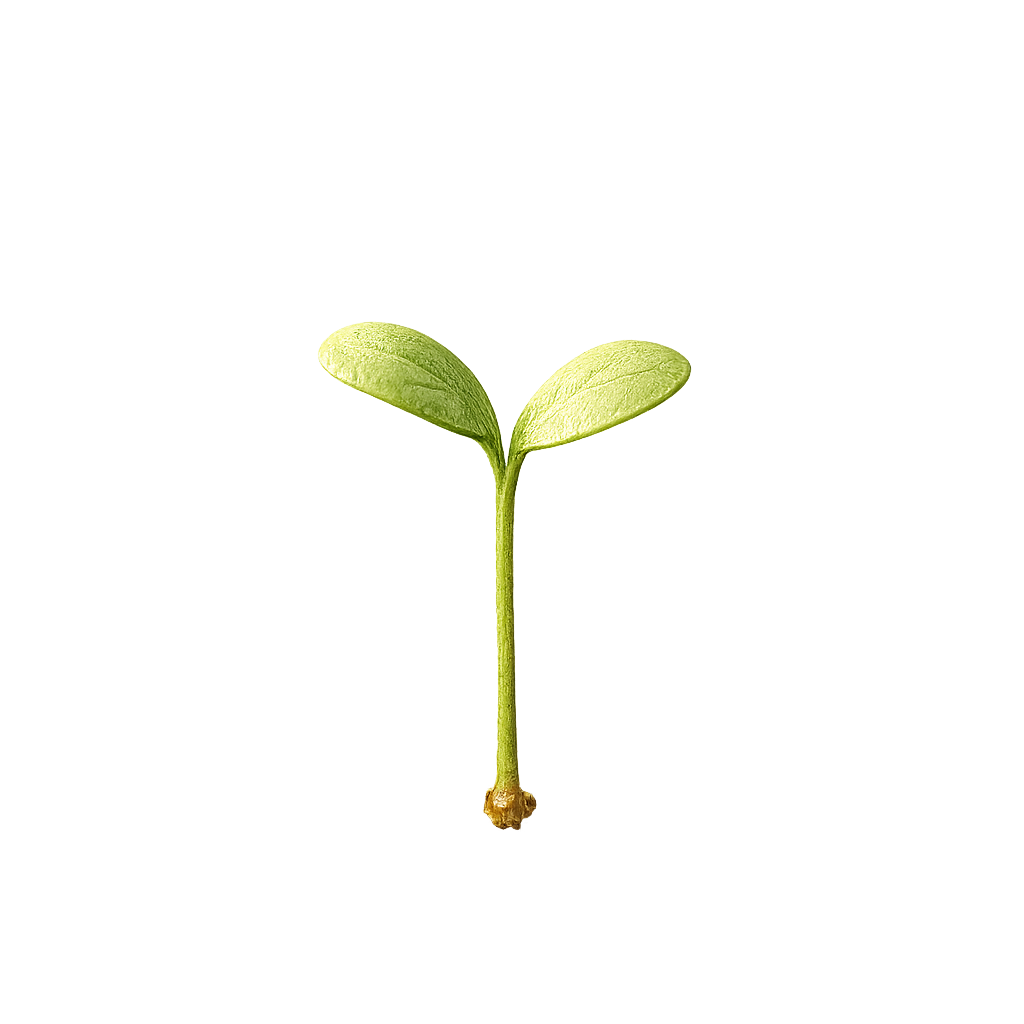
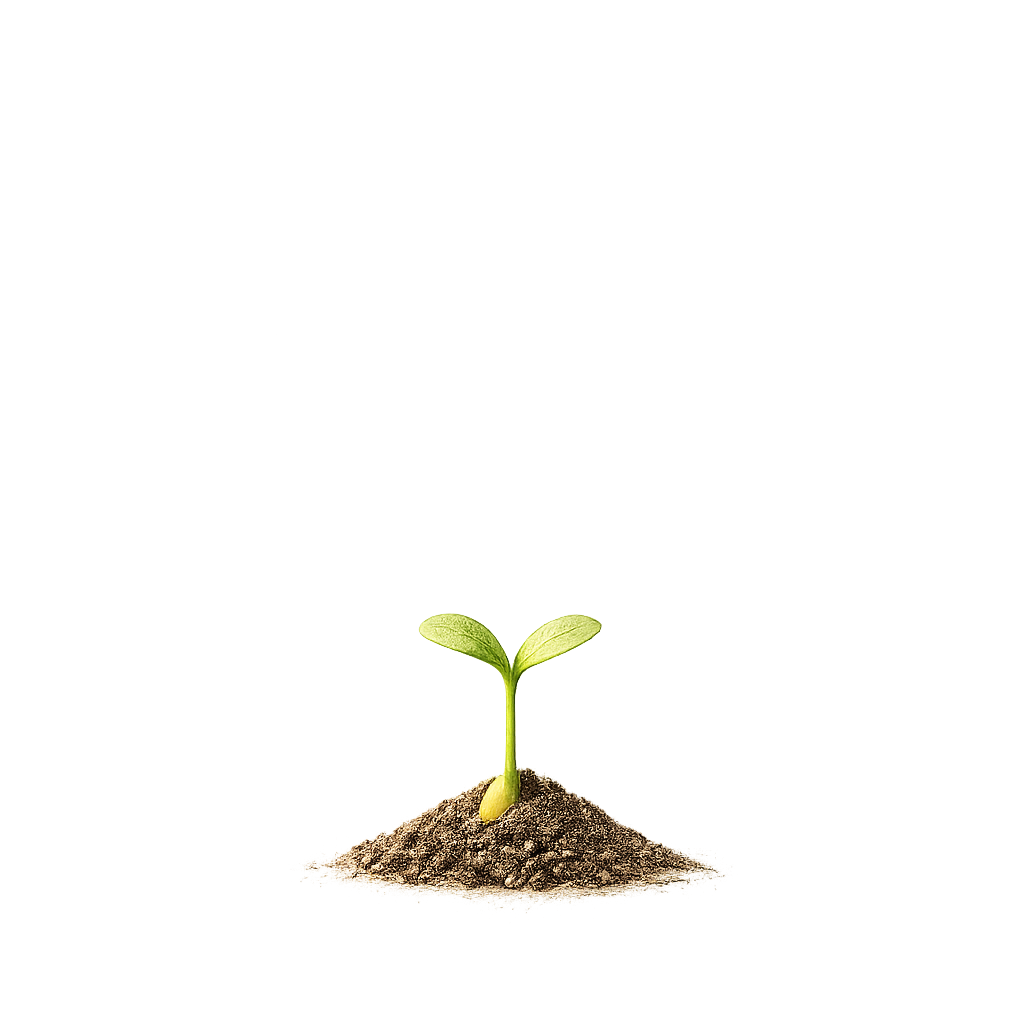
feat: implement dynamic TreeDisplayWidget with day-night cycles, celestial bodies, and tree stage asset support.

Changed region(s): [[0.3125, 0.3125, 0.6875, 0.875]]

diff --git a/app/lib/src/features/dashboard/widgets/tree_display_widget.dart b/app/lib/src/features/dashboard/widgets/tree_display_widget.dart
@@ -615,19 +615,59 @@ class _TreeVitalityCardState extends State<TreeVitalityCard> {
         child: Column(
           children: [
             // Full-width Panorama Tree Scene wrapped in RepaintBoundary for capture feature
-            RepaintBoundary(
-              key: _repaintBoundaryKey,
-              child: TreeDisplayWidget(
-                skinId: widget.skinId,
-                cumulativeDays: widget.cumulativeDays,
-                season: widget.season,
-                width: double.infinity,
-                height: 220,
-              ),
+            Stack(
+              children: [
+                RepaintBoundary(
+                  key: _repaintBoundaryKey,
+                  child: TreeDisplayWidget(
+                    skinId: widget.skinId,
+                    cumulativeDays: widget.cumulativeDays,
+                    season: widget.season,
+                    width: double.infinity,
+                    height: 220,
+                  ),
+                ),
+                // Floating minimal capture button at top-right (outside RepaintBoundary so it's not captured)
+                Positioned(
+                  top: 12,
+                  right: 12,
+                  child: Tooltip(
+                    message: 'Ambil Foto Pohon',
+                    child: ClipOval(
+                      child: Material(
+                        color: Colors.black.withValues(alpha: 0.12),
+                        child: InkWell(
+                          onTap: _isCapturing ? null : _captureAndShareTree,
+                          child: SizedBox(
+                            width: 32,
+                            height: 32,
+                            child: Center(
+                              child: _isCapturing
+                                  ? const SizedBox(
+                                      width: 14,
+                                      height: 14,
+                                      child: CircularProgressIndicator(
+                                        strokeWidth: 2,
+                                        valueColor: AlwaysStoppedAnimation<Color>(Colors.white),
+                                      ),
+                                    )
+                                  : Icon(
+                                      Icons.camera_alt_outlined,
+                                      size: 16,
+                                      color: Colors.white.withValues(alpha: 0.85),
+                                    ),
+                            ),
+                          ),
+                        ),
+                      ),
+                    ),
+                  ),
+                ),
+              ],
             ),
             const SizedBox(height: 20),
 
-            // Info Section (Title & Share/Skin buttons)
+            // Info Section (Title & Skin button)
             Row(
               mainAxisAlignment: MainAxisAlignment.spaceBetween,
               crossAxisAlignment: CrossAxisAlignment.start,
@@ -649,75 +689,32 @@ class _TreeVitalityCardState extends State<TreeVitalityCard> {
                     ],
                   ),
                 ),
-                // Action Buttons Row (Ambil Foto & Skin Shop)
-                Row(
-                  mainAxisSize: MainAxisSize.min,
-                  children: [
-                    // Capture/Share button
-                    InkWell(
-                      onTap: _isCapturing ? null : _captureAndShareTree,
+                // Skin Shop button
+                InkWell(
+                  onTap: widget.onSkinShopTap,
+                  borderRadius: BorderRadius.circular(12),
+                  child: Container(
+                    padding: const EdgeInsets.symmetric(horizontal: 10, vertical: 6),
+                    decoration: BoxDecoration(
+                      color: theme.colorScheme.primary.withOpacity(0.08),
                       borderRadius: BorderRadius.circular(12),
-                      child: Container(
-                        padding: const EdgeInsets.symmetric(horizontal: 10, vertical: 6),
-                        decoration: BoxDecoration(
-                          color: theme.colorScheme.secondary.withOpacity(0.08),
-                          borderRadius: BorderRadius.circular(12),
-                          border: Border.all(color: theme.colorScheme.secondary.withOpacity(0.15)),
-                        ),
-                        child: Row(
-                          children: [
-                            _isCapturing
-                                ? const SizedBox(
-                                    width: 14,
-                                    height: 14,
-                                    child: CircularProgressIndicator(
-                                      strokeWidth: 2,
-                                      valueColor: AlwaysStoppedAnimation<Color>(Colors.grey),
-                                    ),
-                                  )
-                                : Icon(Icons.camera_alt_outlined, size: 14, color: theme.colorScheme.secondary),
-                            const SizedBox(width: 4),
-                            Text(
-                              'Ambil Foto',
-                              style: TextStyle(
-                                fontSize: 11,
-                                fontWeight: FontWeight.bold,
-                                color: theme.colorScheme.secondary,
-                              ),
-                            ),
-                          ],
-                        ),
-                      ),
+                      border: Border.all(color: theme.colorScheme.primary.withOpacity(0.15)),
                     ),
-                    const SizedBox(width: 8),
-                    // Skin Shop button
-                    InkWell(
-                      onTap: widget.onSkinShopTap,
-                      borderRadius: BorderRadius.circular(12),
-                      child: Container(
-                        padding: const EdgeInsets.symmetric(horizontal: 10, vertical: 6),
-                        decoration: BoxDecoration(
-                          color: theme.colorScheme.primary.withOpacity(0.08),
-                          borderRadius: BorderRadius.circular(12),
-                          border: Border.all(color: theme.colorScheme.primary.withOpacity(0.15)),
+                    child: Row(
+                      children: [
+                        Icon(Icons.palette_outlined, size: 14, color: theme.colorScheme.primary),
+                        const SizedBox(width: 4),
+                        Text(
+                          'Skin Shop',
+                          style: TextStyle(
+                            fontSize: 11,
+                            fontWeight: FontWeight.bold,
+                            color: theme.colorScheme.primary,
+                          ),
                         ),
-                        child: Row(
-                          children: [
-                            Icon(Icons.palette_outlined, size: 14, color: theme.colorScheme.primary),
-                            const SizedBox(width: 4),
-                            Text(
-                              'Skin Shop',
-                              style: TextStyle(
-                                fontSize: 11,
-                                fontWeight: FontWeight.bold,
-                                color: theme.colorScheme.primary,
-                              ),
-                            ),
-                          ],
-                        ),
-                      ),
+                      ],
                     ),
-                  ],
+                  ),
                 ),
               ],
             ),